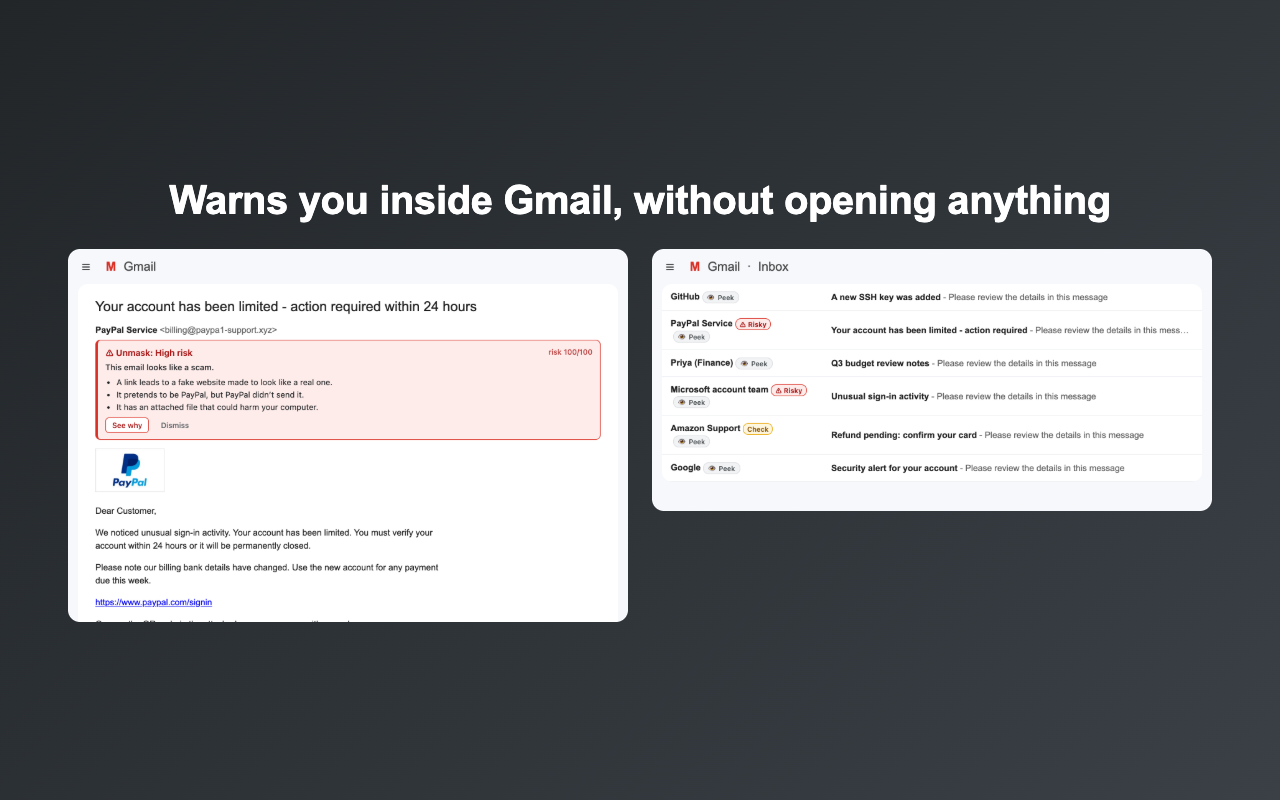
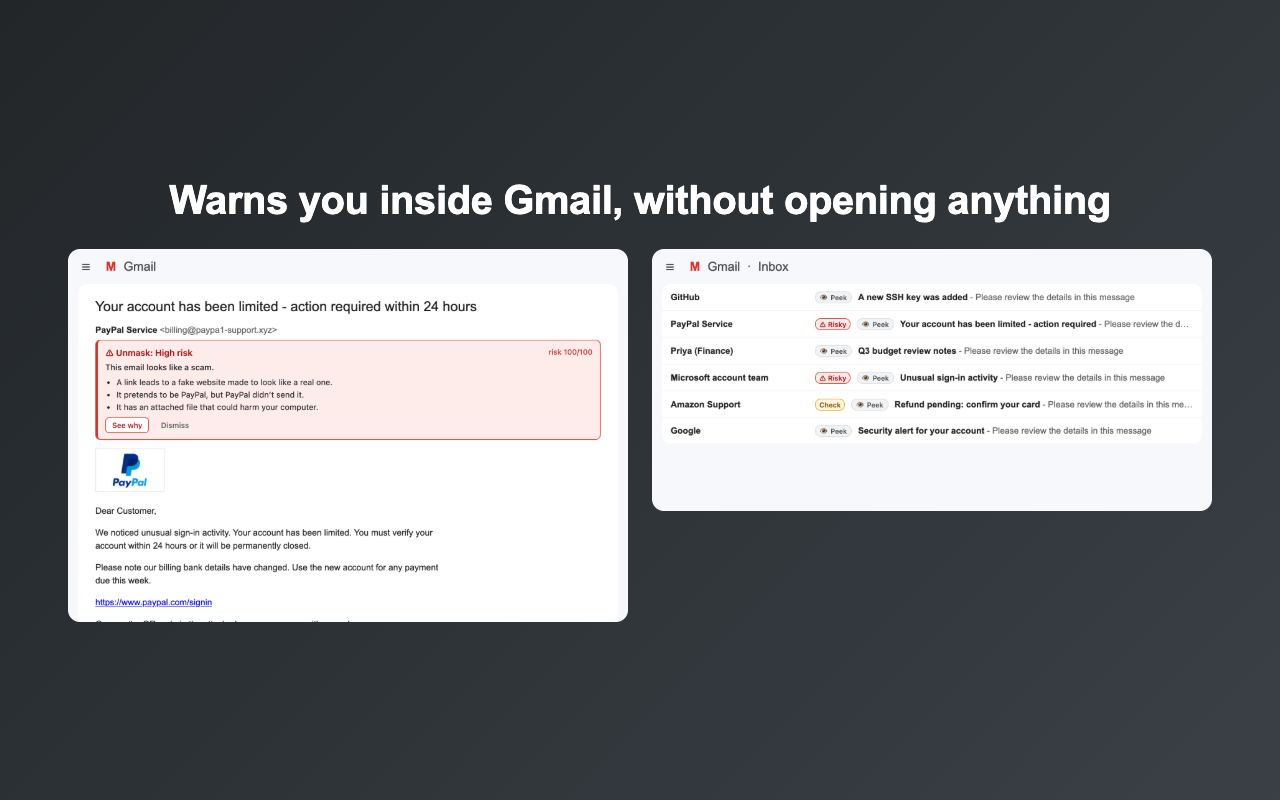
chore(release): 0.3.1, refreshed screenshots and guide

Changed region(s): [[0.5, 0.3438, 0.9375, 0.5938]]

diff --git a/CHANGELOG.md b/CHANGELOG.md
@@ -4,6 +4,13 @@ All notable changes to Unmask. The format follows [Keep a Changelog](https://kee
 
 ## [Unreleased]
 
+## [0.3.1] - 2026-10-20
+
+### Fixed
+- **Peek buttons were invisible in real Gmail.** They sat after the sender's name, inside Gmail's fixed-width sender column, which cut them off for longer names. They're now at the start of the subject, where Gmail shows its own labels. The end-to-end test now copies Gmail's real inbox layout and checks every button is visible and clickable.
+- **False alarms on legitimate links and newsletters:** `research.meta.ai` flagged as "not a Meta domain"; link text like `CLAUDE.md` read as a website; brands' own country and product domains (`google.co.in`, `amazon.de`, `paypal.de`, `meta.ai`) treated as lookalikes; everyday words (a person called Chase, `apple-farm.com`, `wise-owl.org`) treated as brand claims; real words treated as typos (`finance` vs Binance, `revolt` vs Revolut); newsletters showing a company's logo flagged as fakes; LinkedIn's `lnkd.in` and Google's `docs.google.com` flagged in those companies' own emails. A 100-case accuracy corpus of real links, senders and phishing patterns now guards against this.
+- **urlscan.io "taking too long":** results of unlisted and private scans were fetched without the API key, so they could never be found. A scan still running after 2.5 minutes now shows a link to its report instead of an error.
+
 ## [0.3.0] - 2026-10-20
 
 ### Added

diff --git a/docs/USER_GUIDE.md b/docs/USER_GUIDE.md
@@ -300,7 +300,7 @@ Unmask never sends a report itself; you always review and send it.
 
 **Why:** when you open an email, Gmail shows its pictures. Marketing and scam emails hide tiny invisible pictures ("tracking pixels") among them. Loading one tells the sender *that* you opened it and *when*, which confirms your address is real. Gmail fetches pictures through its own proxy, so the sender doesn't get your IP address, but it still learns you opened the email.
 
-**What Peek does:** every row in your inbox list gets a small **👁 Peek** button.
+**What Peek does:** every row in your inbox list gets a small **👁 Peek** button at the start of the subject, where Gmail shows its own labels. Risky senders also get a **⚠ Risky** or **Check** badge there.
 
 <img src="images/inbox-peek.png" width="560" alt="Peek card over the Gmail inbox: High risk, This email looks like a scam, reasons, text preview, Read it safely in Unmask">
 
